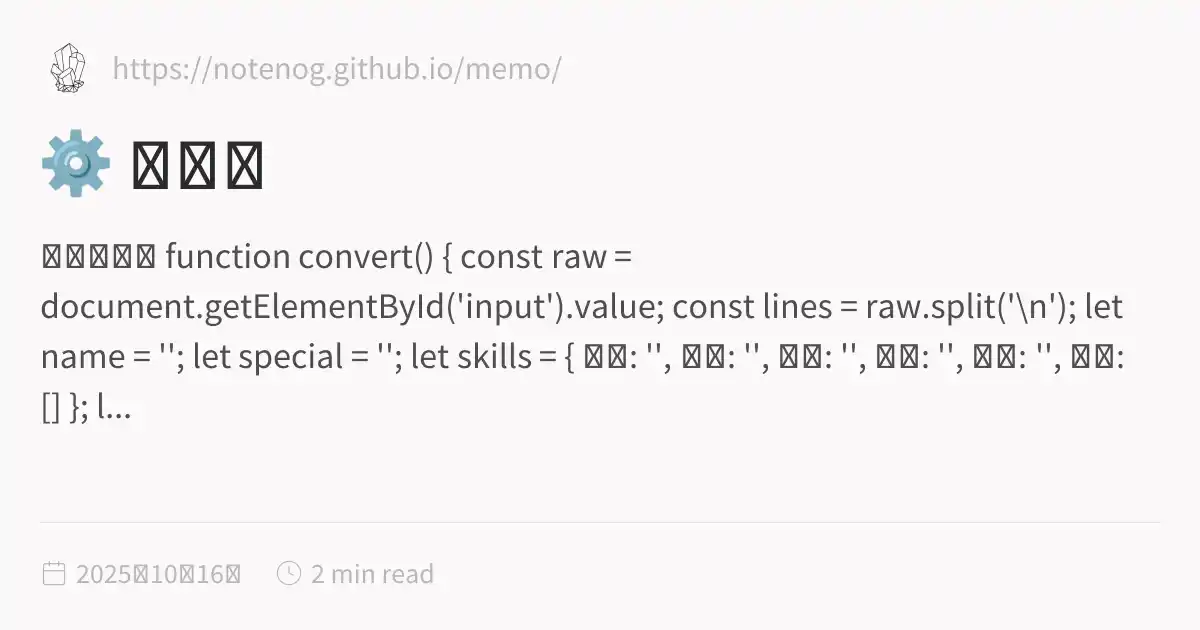
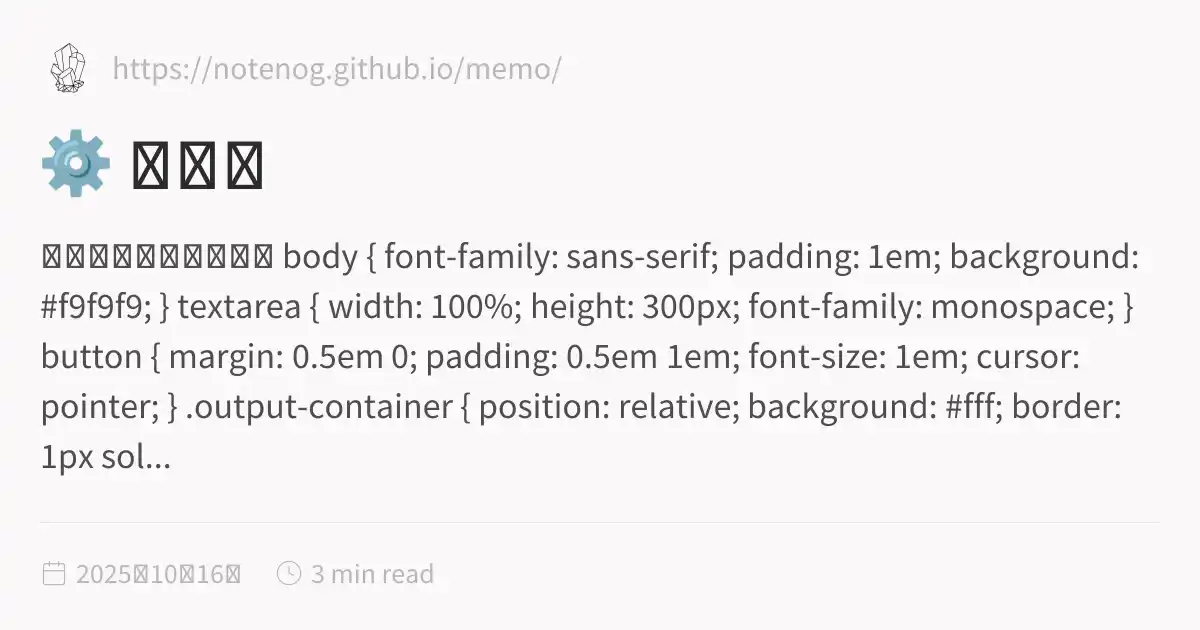
fix: Final push of clean assets with all content emitters disabled

Changed region(s): [[0.0308, 0.5429, 0.9558, 0.754], [0.0308, 0.3619, 0.9558, 0.5127]]

diff --git a/docs/inSANe_old/tool.html b/docs/inSANe_old/tool.html
@@ -1,5 +1,5 @@
 <!DOCTYPE html>
-<html lang="ja" dir="ltr"><head><title>⚙ ツール</title><meta charset="utf-8"/><link rel="preconnect" href="https://fonts.googleapis.com"/><link rel="preconnect" href="https://fonts.gstatic.com"/><link rel="stylesheet" href="https://fonts.googleapis.com/css2?family=Schibsted Grotesk:wght@400;700&amp;family=Source Sans Pro:ital,wght@0,400;0,600;1,400;1,600&amp;family=IBM Plex Mono:wght@400;600&amp;display=swap"/><link rel="preconnect" href="https://cdnjs.cloudflare.com" crossorigin="anonymous"/><meta name="viewport" content="width=device-width, initial-scale=1.0"/><meta name="og:site_name" content="MEMO"/><meta property="og:title" content="⚙ ツール"/><meta property="og:type" content="website"/><meta name="twitter:card" content="summary_large_image"/><meta name="twitter:title" content="⚙ ツール"/><meta name="twitter:description" content="変換する！ function convert() { const raw = document.getElementById('input').value; const lines = raw.split('\n'); let name = ''; let special = ''; let skills = { 暴力: '', 情動: '', 知覚: '', 技術: '', 知識: '', 怪異: [] }; l..."/><meta property="og:description" content="変換する！ function convert() { const raw = document.getElementById('input').value; const lines = raw.split('\n'); let name = ''; let special = ''; let skills = { 暴力: '', 情動: '', 知覚: '', 技術: '', 知識: '', 怪異: [] }; l..."/><meta property="og:image:alt" content="変換する！ function convert() { const raw = document.getElementById('input').value; const lines = raw.split('\n'); let name = ''; let special = ''; let skills = { 暴力: '', 情動: '', 知覚: '', 技術: '', 知識: '', 怪異: [] }; l..."/><meta property="twitter:domain" content="https://notenog.github.io/memo/"/><meta property="og:url" content="https://https//notenog.github.io/memo/inSANe_old/tool"/><meta property="twitter:url" content="https://https//notenog.github.io/memo/inSANe_old/tool"/><link rel="icon" href="../static/icon.png"/><meta name="description" content="変換する！ function convert() { const raw = document.getElementById('input').value; const lines = raw.split('\n'); let name = ''; let special = ''; let skills = { 暴力: '', 情動: '', 知覚: '', 技術: '', 知識: '', 怪異: [] }; l..."/><meta name="generator" content="Quartz"/><link href="../index.css" rel="stylesheet" type="text/css" spa-preserve/><style>.expand-button {
+<html lang="ja" dir="ltr"><head><title>⚙ ツール</title><meta charset="utf-8"/><link rel="preconnect" href="https://fonts.googleapis.com"/><link rel="preconnect" href="https://fonts.gstatic.com"/><link rel="stylesheet" href="https://fonts.googleapis.com/css2?family=Schibsted Grotesk:wght@400;700&amp;family=Source Sans Pro:ital,wght@0,400;0,600;1,400;1,600&amp;family=IBM Plex Mono:wght@400;600&amp;display=swap"/><link rel="preconnect" href="https://cdnjs.cloudflare.com" crossorigin="anonymous"/><meta name="viewport" content="width=device-width, initial-scale=1.0"/><meta name="og:site_name" content="MEMO"/><meta property="og:title" content="⚙ ツール"/><meta property="og:type" content="website"/><meta name="twitter:card" content="summary_large_image"/><meta name="twitter:title" content="⚙ ツール"/><meta name="twitter:description" content="インセイン変換ツール body { font-family: sans-serif; padding: 1em; background: #f9f9f9; } textarea { width: 100%; height: 300px; font-family: monospace; } button { margin: 0.5em 0; padding: 0.5em 1em; font-size: 1em; cursor: pointer; } .output-container { position: relative; background: #fff; border: 1px sol..."/><meta property="og:description" content="インセイン変換ツール body { font-family: sans-serif; padding: 1em; background: #f9f9f9; } textarea { width: 100%; height: 300px; font-family: monospace; } button { margin: 0.5em 0; padding: 0.5em 1em; font-size: 1em; cursor: pointer; } .output-container { position: relative; background: #fff; border: 1px sol..."/><meta property="og:image:alt" content="インセイン変換ツール body { font-family: sans-serif; padding: 1em; background: #f9f9f9; } textarea { width: 100%; height: 300px; font-family: monospace; } button { margin: 0.5em 0; padding: 0.5em 1em; font-size: 1em; cursor: pointer; } .output-container { position: relative; background: #fff; border: 1px sol..."/><meta property="twitter:domain" content="https://notenog.github.io/memo/"/><meta property="og:url" content="https://https//notenog.github.io/memo/inSANe_old/tool"/><meta property="twitter:url" content="https://https//notenog.github.io/memo/inSANe_old/tool"/><link rel="icon" href="../static/icon.png"/><meta name="description" content="インセイン変換ツール body { font-family: sans-serif; padding: 1em; background: #f9f9f9; } textarea { width: 100%; height: 300px; font-family: monospace; } button { margin: 0.5em 0; padding: 0.5em 1em; font-size: 1em; cursor: pointer; } .output-container { position: relative; background: #fff; border: 1px sol..."/><meta name="generator" content="Quartz"/><link href="../index.css" rel="stylesheet" type="text/css" spa-preserve/><style>.expand-button {
   position: absolute;
   display: flex;
   float: right;
@@ -116,10 +116,68 @@ pre:hover > .expand-button {
   padding: 0 12px;
   font-size: 14px;
 }
[2 lines of base64/hex data omitted]
+
+
+  <meta charset="UTF-8"/>
+  <title>インセイン変換ツール</title>
+  <style>
+    body {
+      font-family: sans-serif;
+      padding: 1em;
+      background: #f9f9f9;
+    }
+textarea {
+  width: 100%;
+  height: 300px;
+  font-family: monospace;
+}
+
+button {
+  margin: 0.5em 0;
+  padding: 0.5em 1em;
+  font-size: 1em;
+  cursor: pointer;
+}
+
+.output-container {
+  position: relative;
+  background: #fff;
+  border: 1px solid #ccc;
+  padding: 1em;
+  margin-top: 1em;
+  white-space: pre-wrap;
+  font-family: monospace;
+}
+
+.copy-button {
+  position: absolute;
+  top: 0.5em;
+  right: 0.5em;
+  background: #eee;
+  border: none;
+  padding: 0.3em 0.6em;
+  cursor: pointer;
+  font-size: 1em;
+  border-radius: 4px;
+  transition: background 0.2s;
+}
+
+.copy-button:hover {
+  background: #ddd;
+}
+</style>
+  
+
+
+<h2 id="-キャラシート--チャットパレット変換">🛠 キャラシート → チャットパレット変換<a role="anchor" aria-hidden="true" tabindex="-1" data-no-popover="true" href="#-キャラシート--チャットパレット変換" class="internal"><svg width="18" height="18" viewBox="0 0 24 24" fill="none" stroke="currentColor" stroke-width="2" stroke-linecap="round" stroke-linejoin="round"><path d="M10 13a5 5 0 0 0 7.54.54l3-3a5 5 0 0 0-7.07-7.07l-1.72 1.71"></path><path d="M14 11a5 5 0 0 0-7.54-.54l-3 3a5 5 0 0 0 7.07 7.07l1.71-1.71"></path></svg></a></h2>
+<textarea id="input" placeholder="キャラシートを貼り付けてね"></textarea>
 <br/>
 <button onclick="convert()">変換する！</button>
-<pre id="output"></pre>
+<div class="output-container">
+  <button class="copy-button" onclick="copyOutput()">📋</button>
+  <pre id="output"></pre>
+</div>
 <script>
 function convert() {
   const raw = document.getElementById('input').value;
@@ -128,9 +186,9 @@ function convert() {
   let name = '';
   let special = '';
   let skills = {
-    暴力: '', 情動: '', 知覚: '', 技術: '', 知識: '', 怪異: []
+    暴力: '〈〉', 情動: '〈〉', 知覚: '〈〉', 技術: '〈〉', 知識: '〈〉', 怪異: []
   };
-  let fear = '';
+  let fear = '〈〉';
   let abilities = [];
 
   for (let line of lines) {
@@ -149,9 +207,10 @@ function convert() {
   }
 
   const output = `
-◆名前：${name}　◆PL：
 ------------------------------------------
-◆特技　★${special}
+👁🗨 名前：${name}　PL：
+------------------------------------------
+⚜ 特技　★${special}
 　暴力分野：${skills['暴力']}
 　情動分野：${skills['情動']}
 　知覚分野：${skills['知覚']}
@@ -159,15 +218,18 @@ function convert() {
 　知識分野：${skills['知識']}
 ★怪異分野：${skills['怪異'].map(s => `〈${s}〉`).join('、')}
 
-✖恐怖心：〈${fear}〉
+✖恐怖心：${fear}
 ------------------------------------------
-◆アビリティ
-${abilities.join('\n')}
+💠 アビリティ
+　${abilities.join('\n　')}
 ------------------------------------------
-◆感情
-PC名→感情(+/-)
+❤ 感情
+　・PC名　→　感情(+/-)
 ------------------------------------------
-◆情報/居所
+📓 情報/居所
+　・
+------------------------------------------
+------------------------------------------
 `.trim();
 
   document.getElementById('output').textContent = output;
@@ -175,21 +237,34 @@ PC名→感情(+/-)
 
 function extractSkill(line) {
   const match = line.match(/：(.+)/);
-  return match ? `〈${match[1].trim()}〉` : '';
+  const raw = match ? match[1].trim() : '';
+  return raw ? `〈${raw.replace(/[〈〉]/g, '')}〉` : '〈〉';
 }
 
 function extractMultipleSkills(line) {
   const match = line.match(/怪異：○：(.+)/);
-  return match ? match[1].split('、').map(s => s.trim()) : [];
+  return match ? match[1].split('、').map(s => s.trim().replace(/[〈〉]/g, '')) : [];
 }
 
 function formatAbility(line) {
   const parts = line.split('：');
   const name = parts[0].trim();
   const type = parts[1].trim();
-  const skill = parts[2].trim();
-  return `【　${name}　】：　${type}　：　${skill ? `〈${skill}〉` : 'なし'}`;
+  const skill = parts[2] ? parts[2].trim().replace(/[〈〉]/g, '') : '';
+  return `【　${name}　】：　${type}　：　〈${skill || 'なし'}〉`;
 }
-</script></article><hr/><div class="page-footer"></div></div><div class="right sidebar"><div class="search"><button class="search-button"><svg role="img" xmlns="http://www.w3.org/2000/svg" viewBox="0 0 19.9 19.7"><title>Search</title><g class="search-path" fill="none"><path stroke-linecap="square" d="M18.5 18.3l-5.4-5.4"></path><circle cx="8" cy="8" r="7"></circle></g></svg><p>Search</p></button><div class="search-container"><div class="search-space"><input autocomplete="off" class="search-bar" name="search" type="text" aria-label="検索ワードを入力" placeholder="検索ワードを入力"/><div class="search-layout" data-preview="true"></div></div></div></div></div><footer class><p>Created with <a href="https://quartz.jzhao.xyz/">Quartz v4.5.2</a> © 2025</p><ul><li><a href="https://discordapp.com/users/318729033737043969">@disconog</a></li></ul></footer></div></div></body><script type="application/javascript">function n(){let t=this.parentElement;t.classList.toggle("is-collapsed");let e=t.getElementsByClassName("callout-content")[0];if(!e)return;let l=t.classList.contains("is-collapsed");e.style.gridTemplateRows=l?"0fr":"1fr"}function c(){let t=document.getElementsByClassName("callout is-collapsible");for(let e of t){let l=e.getElementsByClassName("callout-title")[0],s=e.getElementsByClassName("callout-content")[0];if(!l||!s)continue;l.addEventListener("click",n),window.addCleanup(()=>l.removeEventListener("click",n));let o=e.classList.contains("is-collapsed");s.style.gridTemplateRows=o?"0fr":"1fr"}}document.addEventListener("nav",c);
+
+function copyOutput() {
+  const text = document.getElementById('output').textContent;
+  navigator.clipboard.writeText(text).then(() => {
+    alert('コピーしました！🦊');
+  }).catch(err => {
+    alert('コピーに失敗しました…🌀');
+    console.error(err);
+  });
+}
+</script>
+
+</article><hr/><div class="page-footer"></div></div><div class="right sidebar"><div class="search"><button class="search-button"><svg role="img" xmlns="http://www.w3.org/2000/svg" viewBox="0 0 19.9 19.7"><title>Search</title><g class="search-path" fill="none"><path stroke-linecap="square" d="M18.5 18.3l-5.4-5.4"></path><circle cx="8" cy="8" r="7"></circle></g></svg><p>Search</p></button><div class="search-container"><div class="search-space"><input autocomplete="off" class="search-bar" name="search" type="text" aria-label="検索ワードを入力" placeholder="検索ワードを入力"/><div class="search-layout" data-preview="true"></div></div></div></div></div><footer class><p>Created with <a href="https://quartz.jzhao.xyz/">Quartz v4.5.2</a> © 2025</p><ul><li><a href="https://discordapp.com/users/318729033737043969">@disconog</a></li></ul></footer></div></div></body><script type="application/javascript">function n(){let t=this.parentElement;t.classList.toggle("is-collapsed");let e=t.getElementsByClassName("callout-content")[0];if(!e)return;let l=t.classList.contains("is-collapsed");e.style.gridTemplateRows=l?"0fr":"1fr"}function c(){let t=document.getElementsByClassName("callout is-collapsible");for(let e of t){let l=e.getElementsByClassName("callout-title")[0],s=e.getElementsByClassName("callout-content")[0];if(!l||!s)continue;l.addEventListener("click",n),window.addCleanup(()=>l.removeEventListener("click",n));let o=e.classList.contains("is-collapsed");s.style.gridTemplateRows=o?"0fr":"1fr"}}document.addEventListener("nav",c);
 </script><script type="module">function f(i,e){if(!i)return;function r(o){o.target===this&&(o.preventDefault(),o.stopPropagation(),e())}function t(o){o.key.startsWith("Esc")&&(o.preventDefault(),e())}i?.addEventListener("click",r),window.addCleanup(()=>i?.removeEventListener("click",r)),document.addEventListener("keydown",t),window.addCleanup(()=>document.removeEventListener("keydown",t))}function y(i){for(;i.firstChild;)i.removeChild(i.firstChild)}var h=class{constructor(e,r){this.container=e;this.content=r;this.setupEventListeners(),this.setupNavigationControls(),this.resetTransform()}isDragging=!1;startPan={x:0,y:0};currentPan={x:0,y:0};scale=1;MIN_SCALE=.5;MAX_SCALE=3;cleanups=[];setupEventListeners(){let e=this.onMouseDown.bind(this),r=this.onMouseMove.bind(this),t=this.onMouseUp.bind(this),o=this.resetTransform.bind(this);this.container.addEventListener("mousedown",e),document.addEventListener("mousemove",r),document.addEventListener("mouseup",t),window.addEventListener("resize",o),this.cleanups.push(()=>this.container.removeEventListener("mousedown",e),()=>document.removeEventListener("mousemove",r),()=>document.removeEventListener("mouseup",t),()=>window.removeEventListener("resize",o))}cleanup(){for(let e of this.cleanups)e()}setupNavigationControls(){let e=document.createElement("div");e.className="mermaid-controls";let r=this.createButton("+",()=>this.zoom(.1)),t=this.createButton("-",()=>this.zoom(-.1)),o=this.createButton("Reset",()=>this.resetTransform());e.appendChild(t),e.appendChild(o),e.appendChild(r),this.container.appendChild(e)}createButton(e,r){let t=document.createElement("button");return t.textContent=e,t.className="mermaid-control-button",t.addEventListener("click",r),window.addCleanup(()=>t.removeEventListener("click",r)),t}onMouseDown(e){e.button===0&&(this.isDragging=!0,this.startPan={x:e.clientX-this.currentPan.x,y:e.clientY-this.currentPan.y},this.container.style.cursor="grabbing")}onMouseMove(e){this.isDragging&&(e.preventDefault(),this.currentPan={x:e.clientX-this.startPan.x,y:e.clientY-this.startPan.y},this.updateTransform())}onMouseUp(){this.isDragging=!1,this.container.style.cursor="grab"}zoom(e){let r=Math.min(Math.max(this.scale+e,this.MIN_SCALE),this.MAX_SCALE),t=this.content.getBoundingClientRect(),o=t.width/2,n=t.height/2,c=r-this.scale;this.currentPan.x-=o*c,this.currentPan.y-=n*c,this.scale=r,this.updateTransform()}updateTransform(){this.content.style.transform=`translate(${this.currentPan.x}px, ${this.currentPan.y}px) scale(${this.scale})`}resetTransform(){this.scale=1;let e=this.content.querySelector("svg");this.currentPan={x:e.getBoundingClientRect().width/2,y:e.getBoundingClientRect().height/2},this.updateTransform()}},C=["--secondary","--tertiary","--gray","--light","--lightgray","--highlight","--dark","--darkgray","--codeFont"],E;document.addEventListener("nav",async()=>{let e=document.querySelector(".center").querySelectorAll("code.mermaid");if(e.length===0)return;E||=await import("https://cdnjs.cloudflare.com/ajax/libs/mermaid/11.4.0/mermaid.esm.min.mjs");let r=E.default,t=new WeakMap;for(let n of e)t.set(n,n.innerText);async function o(){for(let s of e){s.removeAttribute("data-processed");let a=t.get(s);a&&(s.innerHTML=a)}let n=C.reduce((s,a)=>(s[a]=window.getComputedStyle(document.documentElement).getPropertyValue(a),s),{}),c=document.documentElement.getAttribute("saved-theme")==="dark";r.initialize({startOnLoad:!1,securityLevel:"loose",theme:c?"dark":"base",themeVariables:{fontFamily:n["--codeFont"],primaryColor:n["--light"],primaryTextColor:n["--darkgray"],primaryBorderColor:n["--tertiary"],lineColor:n["--darkgray"],secondaryColor:n["--secondary"],tertiaryColor:n["--tertiary"],clusterBkg:n["--light"],edgeLabelBackground:n["--highlight"]}}),await r.run({nodes:e})}await o(),document.addEventListener("themechange",o),window.addCleanup(()=>document.removeEventListener("themechange",o));for(let n=0;n<e.length;n++){let v=function(){let g=l.querySelector("#mermaid-space"),m=l.querySelector(".mermaid-content");if(!m)return;y(m);let w=c.querySelector("svg").cloneNode(!0);m.appendChild(w),l.classList.add("active"),g.style.cursor="grab",u=new h(g,m)},M=function(){l.classList.remove("active"),u?.cleanup(),u=null},c=e[n],s=c.parentElement,a=s.querySelector(".clipboard-button"),d=s.querySelector(".expand-button"),p=window.getComputedStyle(a),L=a.offsetWidth+parseFloat(p.marginLeft||"0")+parseFloat(p.marginRight||"0");d.style.right=`calc(${L}px + 0.3rem)`,s.prepend(d);let l=s.querySelector("#mermaid-container");if(!l)return;let u=null;d.addEventListener("click",v),f(l,M),window.addCleanup(()=>{u?.cleanup(),d.removeEventListener("click",v)})}});
 </script><script src="https://cdn.jsdelivr.net/npm/katex@0.16.11/dist/contrib/copy-tex.min.js" type="application/javascript"></script><script src="../postscript.js" type="module"></script></html>

diff --git a/docs/inSANe_old/index.html b/docs/inSANe_old/index.html
@@ -116,6 +116,6 @@ pre:hover > .expand-button {
   padding: 0 12px;
   font-size: 14px;
 }
[2 lines of base64/hex data omitted]
 </script><script type="module">function f(i,e){if(!i)return;function r(o){o.target===this&&(o.preventDefault(),o.stopPropagation(),e())}function t(o){o.key.startsWith("Esc")&&(o.preventDefault(),e())}i?.addEventListener("click",r),window.addCleanup(()=>i?.removeEventListener("click",r)),document.addEventListener("keydown",t),window.addCleanup(()=>document.removeEventListener("keydown",t))}function y(i){for(;i.firstChild;)i.removeChild(i.firstChild)}var h=class{constructor(e,r){this.container=e;this.content=r;this.setupEventListeners(),this.setupNavigationControls(),this.resetTransform()}isDragging=!1;startPan={x:0,y:0};currentPan={x:0,y:0};scale=1;MIN_SCALE=.5;MAX_SCALE=3;cleanups=[];setupEventListeners(){let e=this.onMouseDown.bind(this),r=this.onMouseMove.bind(this),t=this.onMouseUp.bind(this),o=this.resetTransform.bind(this);this.container.addEventListener("mousedown",e),document.addEventListener("mousemove",r),document.addEventListener("mouseup",t),window.addEventListener("resize",o),this.cleanups.push(()=>this.container.removeEventListener("mousedown",e),()=>document.removeEventListener("mousemove",r),()=>document.removeEventListener("mouseup",t),()=>window.removeEventListener("resize",o))}cleanup(){for(let e of this.cleanups)e()}setupNavigationControls(){let e=document.createElement("div");e.className="mermaid-controls";let r=this.createButton("+",()=>this.zoom(.1)),t=this.createButton("-",()=>this.zoom(-.1)),o=this.createButton("Reset",()=>this.resetTransform());e.appendChild(t),e.appendChild(o),e.appendChild(r),this.container.appendChild(e)}createButton(e,r){let t=document.createElement("button");return t.textContent=e,t.className="mermaid-control-button",t.addEventListener("click",r),window.addCleanup(()=>t.removeEventListener("click",r)),t}onMouseDown(e){e.button===0&&(this.isDragging=!0,this.startPan={x:e.clientX-this.currentPan.x,y:e.clientY-this.currentPan.y},this.container.style.cursor="grabbing")}onMouseMove(e){this.isDragging&&(e.preventDefault(),this.currentPan={x:e.clientX-this.startPan.x,y:e.clientY-this.startPan.y},this.updateTransform())}onMouseUp(){this.isDragging=!1,this.container.style.cursor="grab"}zoom(e){let r=Math.min(Math.max(this.scale+e,this.MIN_SCALE),this.MAX_SCALE),t=this.content.getBoundingClientRect(),o=t.width/2,n=t.height/2,c=r-this.scale;this.currentPan.x-=o*c,this.currentPan.y-=n*c,this.scale=r,this.updateTransform()}updateTransform(){this.content.style.transform=`translate(${this.currentPan.x}px, ${this.currentPan.y}px) scale(${this.scale})`}resetTransform(){this.scale=1;let e=this.content.querySelector("svg");this.currentPan={x:e.getBoundingClientRect().width/2,y:e.getBoundingClientRect().height/2},this.updateTransform()}},C=["--secondary","--tertiary","--gray","--light","--lightgray","--highlight","--dark","--darkgray","--codeFont"],E;document.addEventListener("nav",async()=>{let e=document.querySelector(".center").querySelectorAll("code.mermaid");if(e.length===0)return;E||=await import("https://cdnjs.cloudflare.com/ajax/libs/mermaid/11.4.0/mermaid.esm.min.mjs");let r=E.default,t=new WeakMap;for(let n of e)t.set(n,n.innerText);async function o(){for(let s of e){s.removeAttribute("data-processed");let a=t.get(s);a&&(s.innerHTML=a)}let n=C.reduce((s,a)=>(s[a]=window.getComputedStyle(document.documentElement).getPropertyValue(a),s),{}),c=document.documentElement.getAttribute("saved-theme")==="dark";r.initialize({startOnLoad:!1,securityLevel:"loose",theme:c?"dark":"base",themeVariables:{fontFamily:n["--codeFont"],primaryColor:n["--light"],primaryTextColor:n["--darkgray"],primaryBorderColor:n["--tertiary"],lineColor:n["--darkgray"],secondaryColor:n["--secondary"],tertiaryColor:n["--tertiary"],clusterBkg:n["--light"],edgeLabelBackground:n["--highlight"]}}),await r.run({nodes:e})}await o(),document.addEventListener("themechange",o),window.addCleanup(()=>document.removeEventListener("themechange",o));for(let n=0;n<e.length;n++){let v=function(){let g=l.querySelector("#mermaid-space"),m=l.querySelector(".mermaid-content");if(!m)return;y(m);let w=c.querySelector("svg").cloneNode(!0);m.appendChild(w),l.classList.add("active"),g.style.cursor="grab",u=new h(g,m)},M=function(){l.classList.remove("active"),u?.cleanup(),u=null},c=e[n],s=c.parentElement,a=s.querySelector(".clipboard-button"),d=s.querySelector(".expand-button"),p=window.getComputedStyle(a),L=a.offsetWidth+parseFloat(p.marginLeft||"0")+parseFloat(p.marginRight||"0");d.style.right=`calc(${L}px + 0.3rem)`,s.prepend(d);let l=s.querySelector("#mermaid-container");if(!l)return;let u=null;d.addEventListener("click",v),f(l,M),window.addCleanup(()=>{u?.cleanup(),d.removeEventListener("click",v)})}});
 </script><script src="https://cdn.jsdelivr.net/npm/katex@0.16.11/dist/contrib/copy-tex.min.js" type="application/javascript"></script><script src="../postscript.js" type="module"></script></html>

diff --git a/content/inSANe_old/tool.md b/content/inSANe_old/tool.md
@@ -3,12 +3,71 @@ title: "⚙ ツール"
 draft: false
 ---
 
+<!DOCTYPE html>
+<html lang="ja">
+<head>
+  <meta charset="UTF-8">
+  <title>インセイン変換ツール</title>
+  <style>
+    body {
+      font-family: sans-serif;
+      padding: 1em;
+      background: #f9f9f9;
+    }
 
+    textarea {
+      width: 100%;
+      height: 300px;
+      font-family: monospace;
+    }
 
-<textarea id="input" rows="20" cols="60" placeholder="キャラシートを貼り付けてね"></textarea>
+    button {
+      margin: 0.5em 0;
+      padding: 0.5em 1em;
+      font-size: 1em;
+      cursor: pointer;
+    }
+
+    .output-container {
+      position: relative;
+      background: #fff;
+      border: 1px solid #ccc;
+      padding: 1em;
+      margin-top: 1em;
+      white-space: pre-wrap;
+      font-family: monospace;
+    }
+
+    .copy-button {
+      position: absolute;
+      top: 0.5em;
+      right: 0.5em;
+      background: #eee;
+      border: none;
+      padding: 0.3em 0.6em;
+      cursor: pointer;
+      font-size: 1em;
+      border-radius: 4px;
+      transition: background 0.2s;
+    }
+
+    .copy-button:hover {
+      background: #ddd;
+    }
+  </style>
+</head>
+<body>
+
+<h2>🛠 キャラシート → チャットパレット変換</h2>
+
+<textarea id="input" placeholder="キャラシートを貼り付けてね"></textarea>
 <br>
 <button onclick="convert()">変換する！</button>
-<pre id="output"></pre>
+
+<div class="output-container">
+  <button class="copy-button" onclick="copyOutput()">📋</button>
+  <pre id="output"></pre>
+</div>
 
 <script>
 function convert() {
@@ -18,9 +77,9 @@ function convert() {
   let name = '';
   let special = '';
   let skills = {
-    暴力: '', 情動: '', 知覚: '', 技術: '', 知識: '', 怪異: []
+    暴力: '〈〉', 情動: '〈〉', 知覚: '〈〉', 技術: '〈〉', 知識: '〈〉', 怪異: []
   };
-  let fear = '';
+  let fear = '〈〉';
   let abilities = [];
 
   for (let line of lines) {
@@ -39,9 +98,10 @@ function convert() {
   }
 
   const output = `
-◆名前：${name}　◆PL：
 ------------------------------------------
-◆特技　★${special}
+👁🗨 名前：${name}　PL：
+------------------------------------------
+⚜ 特技　★${special}
 　暴力分野：${skills['暴力']}
 　情動分野：${skills['情動']}
 　知覚分野：${skills['知覚']}
@@ -49,15 +109,18 @@ function convert() {
 　知識分野：${skills['知識']}
 ★怪異分野：${skills['怪異'].map(s => `〈${s}〉`).join('、')}
 
-✖恐怖心：〈${fear}〉
+✖恐怖心：${fear}
 ------------------------------------------
-◆アビリティ
-${abilities.join('\n')}
+💠 アビリティ
+　${abilities.join('\n　')}
 ------------------------------------------
-◆感情
-PC名→感情(+/-)
+❤ 感情
+　・PC名　→　感情(+/-)
 ------------------------------------------
-◆情報/居所
+📓 情報/居所
+　・
+------------------------------------------
+------------------------------------------
 `.trim();
 
   document.getElementById('output').textContent = output;
@@ -65,19 +128,33 @@ PC名→感情(+/-)
 
 function extractSkill(line) {
   const match = line.match(/：(.+)/);
-  return match ? `〈${match[1].trim()}〉` : '';
+  const raw = match ? match[1].trim() : '';
+  return raw ? `〈${raw.replace(/[〈〉]/g, '')}〉` : '〈〉';
 }
 
 function extractMultipleSkills(line) {
   const match = line.match(/怪異：○：(.+)/);
-  return match ? match[1].split('、').map(s => s.trim()) : [];
+  return match ? match[1].split('、').map(s => s.trim().replace(/[〈〉]/g, '')) : [];
 }
 
 function formatAbility(line) {
   const parts = line.split('：');
   const name = parts[0].trim();
   const type = parts[1].trim();
-  const skill = parts[2].trim();
-  return `【　${name}　】：　${type}　：　${skill ? `〈${skill}〉` : 'なし'}`;
+  const skill = parts[2] ? parts[2].trim().replace(/[〈〉]/g, '') : '';
+  return `【　${name}　】：　${type}　：　〈${skill || 'なし'}〉`;
+}
+
+function copyOutput() {
+  const text = document.getElementById('output').textContent;
+  navigator.clipboard.writeText(text).then(() => {
+    alert('コピーしました！🦊');
+  }).catch(err => {
+    alert('コピーに失敗しました…🌀');
+    console.error(err);
+  });
 }
 </script>
+
+</body>
+</html>

diff --git a/Templater/1⃣記事用テンプレート.md b/Templater/1⃣記事用テンプレート.md
@@ -1,7 +1,6 @@
-
 ---
 title: index
 draft: false
 // 使う場合はどちらか↑↓
 hideFromIndex: true
-___
+---
